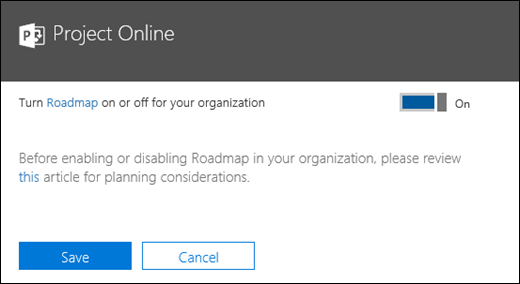
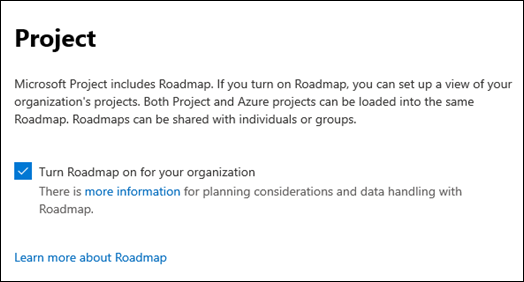
Updated for UI change.

diff --git a/ProjectWeb/Turn-Roadmap-on-or-off.md b/ProjectWeb/Turn-Roadmap-on-or-off.md
@@ -42,9 +42,9 @@ An Office 365 admin can do the following to turn Roadmap on or off for their org
 > [!NOTE]
 > Roadmap is currently turned off by default. After March 15, Roadmap will be turned on for all licensed users. If you want to ensure that Roadmap is off for your organization after that date, follow these steps after February 14, 2019 and turn it off. You need to do this even if you previously turned Roadmap off, and even if you’ve never used Roadmap. 
  
-1. In the Microsoft 365 admin center, under **Settings**, click **Services & add-ins**.
-2. Click **Project Online**.
-3. Set **Turn Roadmap on or off for your entire organization** to On or Off.
+1. In the Microsoft 365 admin center, under **Settings**, click **Settings**.
+2. Click **Project**.
+3. Set **Turn Roadmap on for your organization** to on or off with the checkbox,
 4. Click **Save**.
 5. After saving the settings, go to project.microsoft.com and verify that you can [create a roadmap](https://support.office.com/article/video-create-a-roadmap-6c1828da-203e-4c5b-9739-fdd837021feb?ui=en-US&rs=en-US&ad=US).
 
